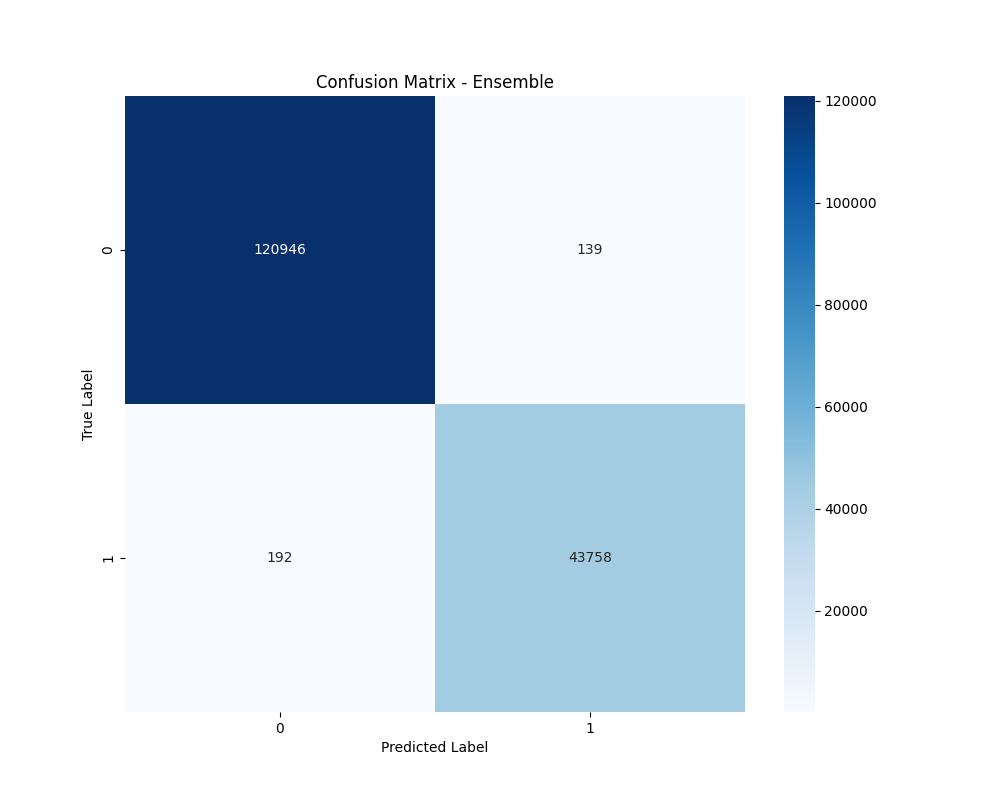
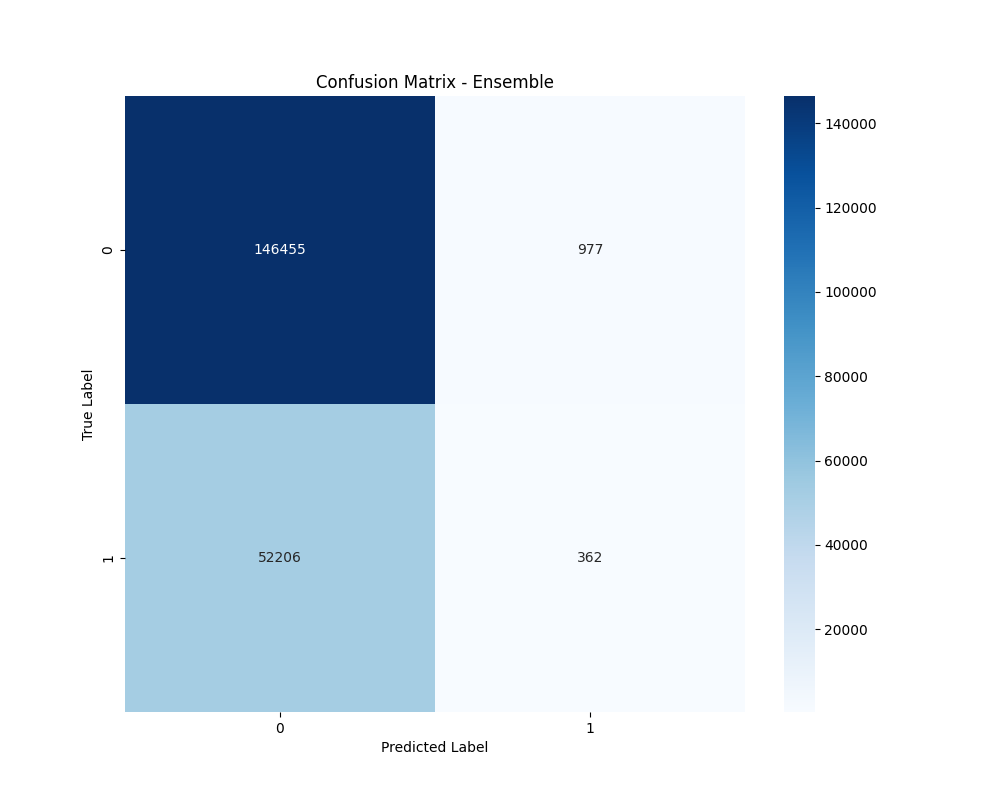
add models with ensemble xgboost and lightgm 1000000 data

diff --git a/ensemble-xgboost-lightgbm_1000000_optimized.py b/ensemble-xgboost-lightgbm_1000000_optimized.py
@@ -1,6 +1,6 @@
 import pandas as pd
 import numpy as np
-from sklearn.model_selection import GridSearchCV, train_test_split, RandomizedSearchCV, StratifiedKFold
+from sklearn.model_selection import train_test_split, RandomizedSearchCV, StratifiedKFold, cross_val_score, GridSearchCV
 from sklearn.preprocessing import RobustScaler
 from sklearn.ensemble import IsolationForest, VotingClassifier, BaggingClassifier
 from sklearn.covariance import EllipticEnvelope
@@ -8,6 +8,7 @@ from sklearn.svm import OneClassSVM
 from sklearn.metrics import classification_report, confusion_matrix, roc_auc_score, make_scorer
 from sklearn.feature_selection import SelectFromModel
 from sklearn.calibration import CalibratedClassifierCV
+from sklearn.linear_model import LogisticRegression
 from imblearn.combine import SMOTEENN, SMOTETomek
 from imblearn.over_sampling import ADASYN
 from imblearn.under_sampling import TomekLinks
@@ -54,22 +55,20 @@ data = pd.read_csv('csv/cleaned_data.csv', parse_dates=['measure_date'])
 sample_size = min(1000000, len(data))
 data_sampled = data.sample(n=sample_size, random_state=42)
 
+# Sort data by date
+data_sampled = data_sampled.sort_values('measure_date')
+
 threshold = data_sampled['value'].quantile(0.75)
 data_sampled['target'] = (data_sampled['value'] > threshold).astype(int)
 
 print("Target variable distribution:")
 print(data_sampled['target'].value_counts(normalize=True))
 
-# Enhanced Feature engineering
+# Enhanced Feature engineering (without lag and rolling statistics)
 data_sampled['hour'] = data_sampled['measure_date'].dt.hour
 data_sampled['day_of_week'] = data_sampled['measure_date'].dt.dayofweek
 data_sampled['month'] = data_sampled['measure_date'].dt.month
 data_sampled['is_weekend'] = data_sampled['day_of_week'].isin([5, 6]).astype(int)
-data_sampled['value_lag_1'] = data_sampled.groupby('event_variable')['value'].shift(1)
-data_sampled['value_rolling_mean'] = data_sampled.groupby('event_variable')['value'].rolling(window=24, min_periods=1).mean().reset_index(0, drop=True)
-data_sampled['value_rolling_std'] = data_sampled.groupby('event_variable')['value'].rolling(window=24, min_periods=1).std().reset_index(0, drop=True)
-data_sampled['value_diff'] = data_sampled.groupby('event_variable')['value'].diff()
-data_sampled['value_pct_change'] = data_sampled.groupby('event_variable')['value'].pct_change()
 
 # More complex features
 data_sampled['hour_sin'] = np.sin(2 * np.pi * data_sampled['hour'] / 24)
@@ -80,19 +79,33 @@ data_sampled['month_sin'] = np.sin(2 * np.pi * data_sampled['month'] / 12)
 data_sampled['month_cos'] = np.cos(2 * np.pi * data_sampled['month'] / 12)
 
 feature_columns = ['event_reference_value', 'hour', 'day_of_week', 'month', 'is_weekend', 
-                   'value_lag_1', 'value_rolling_mean', 'value_rolling_std', 'value_diff', 
-                   'value_pct_change', 'hour_sin', 'hour_cos', 'day_of_week_sin', 
+                   'hour_sin', 'hour_cos', 'day_of_week_sin', 
                    'day_of_week_cos', 'month_sin', 'month_cos']
 
-X = data_sampled[feature_columns].dropna()
-y = data_sampled['target'].loc[X.index]
+X = data_sampled[feature_columns]
+y = data_sampled['target']
 
 # Replace inf and nan values
 X = replace_inf_nan(X)
 y = y.loc[X.index]
 
-# Split the data
-X_train, X_test, y_train, y_test = train_test_split(X, y, test_size=0.2, random_state=42, stratify=y)
+# Verifica del processo di creazione delle feature
+print("Feature correlation with target:")
+correlation = X.corrwith(y)
+print(correlation.sort_values(ascending=False))
+
+# Verifica se ci sono feature con correlazione troppo alta con il target
+high_corr_features = correlation[abs(correlation) > 0.9].index
+if len(high_corr_features) > 0:
+    print(f"Warning: The following features have very high correlation with the target: {high_corr_features}")
+
+# Split the data (using time-based split)
+split_index = int(len(data_sampled) * 0.8)
+X_train, X_test = X[:split_index], X[split_index:]
+y_train, y_test = y[:split_index], y[split_index:]
+
+print("Train set date range:", data_sampled['measure_date'].iloc[:split_index].min(), "to", data_sampled['measure_date'].iloc[:split_index].max())
+print("Test set date range:", data_sampled['measure_date'].iloc[split_index:].min(), "to", data_sampled['measure_date'].iloc[split_index:].max())
 
 # Scale the features
 scaler = RobustScaler()
@@ -226,6 +239,13 @@ ensemble_grid_search = GridSearchCV(ensemble, param_grid, cv=StratifiedKFold(n_s
 ensemble_grid_search.fit(X_resampled_smoteenn, y_resampled_smoteenn)
 best_ensemble = ensemble_grid_search.best_estimator_
 
+# Cross-validation
+# Cross-validation
+print("Performing cross-validation...")
+cv_scores = cross_val_score(best_ensemble, X_resampled_smoteenn, y_resampled_smoteenn, cv=5, scoring=safe_roc_auc_scorer)
+print(f"Cross-validation scores: {cv_scores}")
+print(f"Mean CV score: {cv_scores.mean():.4f} (+/- {cv_scores.std() * 2:.4f})")
+
 # Evaluate ensemble
 X_test_xgb = xgb_selector.transform(X_test_scaled)
 X_test_lgb = lgb_selector.transform(X_test_scaled)
@@ -268,4 +288,108 @@ plt.tight_layout()
 plt.savefig('plots_ensemble_1000000_optimized/feature_importance_ensemble.png')
 plt.close()
 
+print("\nTop 5 important features:")
+print(ensemble_importance.head())
+
+# Verifica se c'è una feature dominante
+if ensemble_importance.iloc[0]['avg_importance'] > 0.5:
+    print(f"Warning: The feature '{ensemble_importance.iloc[0]['feature']}' has a very high importance. This might indicate data leakage.")
+
+# Verifica del codice di valutazione
+print("\nVerifying evaluation process...")
+# Assicuriamoci che stiamo usando il set di test corretto
+assert not np.array_equal(X_test, X_train), "Error: Test set is identical to training set"
+
+# Verifichiamo che la distribuzione delle classi nel set di test sia simile a quella originale
+original_distribution = data_sampled['target'].value_counts(normalize=True)
+test_distribution = y_test.value_counts(normalize=True)
+print("Original class distribution:")
+print(original_distribution)
+print("Test set class distribution:")
+print(test_distribution)
+
+# Verifichiamo che non ci siano feature con valori identici tra train e test
+for col in X_test.columns:
+    if np.array_equal(X_test[col], X_train[col]):
+        print(f"Warning: Feature '{col}' has identical values in train and test sets")
+
 print("\nEnsemble modeling completed. Visualizations saved in 'plots_ensemble_1000000_optimized' folder.")
+
+# Semplificazione del modello
+print("\nTraining a simple logistic regression model...")
+lr_model = LogisticRegression(random_state=42)
+lr_model.fit(X_train_scaled, y_train)
+
+lr_y_pred = lr_model.predict(X_test_scaled)
+lr_y_pred_proba = lr_model.predict_proba(X_test_scaled)[:, 1]
+
+print("\nClassification Report for Logistic Regression:")
+print(classification_report(y_test, lr_y_pred))
+
+print("\nAUC-ROC Score for Logistic Regression:")
+print(roc_auc_score(y_test, lr_y_pred_proba))
+
+# Feature selection più aggressiva
+print("\nPerforming aggressive feature selection...")
+for i in range(5):  # Rimuovi le 5 feature più importanti una alla volta
+    most_important_feature = ensemble_importance.iloc[0]['feature']
+    print(f"Removing feature: {most_important_feature}")
+    
+    feature_columns = [f for f in feature_columns if f != most_important_feature]
+    X = data_sampled[feature_columns]
+    
+    # Ripeti il processo di training e valutazione con le feature rimanenti
+    X_train, X_test, y_train, y_test = train_test_split(X, y, test_size=0.2, random_state=42, stratify=y)
+    
+    scaler = RobustScaler()
+    X_train_scaled = scaler.fit_transform(X_train)
+    X_test_scaled = scaler.transform(X_test)
+    
+    lr_model = LogisticRegression(random_state=42)
+    lr_model.fit(X_train_scaled, y_train)
+    
+    lr_y_pred = lr_model.predict(X_test_scaled)
+    lr_y_pred_proba = lr_model.predict_proba(X_test_scaled)[:, 1]
+    
+    print(f"\nClassification Report after removing {most_important_feature}:")
+    print(classification_report(y_test, lr_y_pred))
+    
+    print(f"\nAUC-ROC Score after removing {most_important_feature}:")
+    print(roc_auc_score(y_test, lr_y_pred_proba))
+    
+    # Aggiorna l'importanza delle feature
+    ensemble_importance = ensemble_importance[ensemble_importance['feature'] != most_important_feature]
+
+# Aumento della difficoltà del problema
+print("\nTrying different target definitions...")
+for percentile in [80, 85, 90, 95]:
+    threshold = data_sampled['value'].quantile(percentile / 100)
+    data_sampled['target'] = (data_sampled['value'] > threshold).astype(int)
+    
+    print(f"\nTarget definition: top {100 - percentile}%")
+    print("New target variable distribution:")
+    print(data_sampled['target'].value_counts(normalize=True))
+    
+    # Ripeti il processo di training e valutazione con questa nuova definizione del target
+    X = data_sampled[feature_columns]
+    y = data_sampled['target']
+    
+    X_train, X_test, y_train, y_test = train_test_split(X, y, test_size=0.2, random_state=42, stratify=y)
+    
+    scaler = RobustScaler()
+    X_train_scaled = scaler.fit_transform(X_train)
+    X_test_scaled = scaler.transform(X_test)
+    
+    lr_model = LogisticRegression(random_state=42)
+    lr_model.fit(X_train_scaled, y_train)
+    
+    lr_y_pred = lr_model.predict(X_test_scaled)
+    lr_y_pred_proba = lr_model.predict_proba(X_test_scaled)[:, 1]
+    
+    print(f"\nClassification Report for target definition {100 - percentile}%:")
+    print(classification_report(y_test, lr_y_pred))
+    
+    print(f"\nAUC-ROC Score for target definition {100 - percentile}%:")
+    print(roc_auc_score(y_test, lr_y_pred_proba))
+
+print("\nAnalysis completed.")

diff --git a/RFM_1000000.py b/RFM_1000000.py
@@ -1,0 +1,117 @@
+
+import pandas as pd
+import numpy as np
+from sklearn.model_selection import train_test_split, RandomizedSearchCV
+from sklearn.preprocessing import StandardScaler
+from sklearn.ensemble import RandomForestClassifier
+from sklearn.metrics import classification_report, confusion_matrix, roc_auc_score
+from imblearn.over_sampling import SMOTE
+import matplotlib.pyplot as plt
+import seaborn as sns
+import os
+
+# Creazione della cartella 'plots' se non esiste
+if not os.path.exists('plots_1000000'):
+    os.makedirs('plots_1000000')
+    print("Cartella 'plots' creata.")
+
+# Carica i dati puliti
+print("Caricamento dei dati puliti...")
+data = pd.read_csv('csv/cleaned_data.csv', parse_dates=['measure_date'])
+
+# Riduzione del dataset
+sample_size = min(1000000, len(data))  # Usa un campione più piccolo se necessario
+data_sampled = data.sample(n=sample_size, random_state=42)
+
+print("Creazione della colonna target...")
+threshold = data_sampled['value'].quantile(0.75)
+data_sampled['target'] = (data_sampled['value'] > threshold).astype(int)
+
+print("Distribuzione della variabile target:")
+print(data_sampled['target'].value_counts(normalize=True))
+
+# Feature engineering più efficiente
+data_sampled['hour'] = data_sampled['measure_date'].dt.hour
+data_sampled['day_of_week'] = data_sampled['measure_date'].dt.dayofweek
+data_sampled['month'] = data_sampled['measure_date'].dt.month
+data_sampled['is_weekend'] = data_sampled['day_of_week'].isin([5, 6]).astype(int)
+
+# Lag features e rolling statistics (su un subset più piccolo di dati)
+data_sampled = data_sampled.sort_values('measure_date')
+data_sampled['value_lag_1'] = data_sampled.groupby('event_variable')['value'].shift(1)
+data_sampled['value_rolling_mean'] = data_sampled.groupby('event_variable')['value'].rolling(window=24, min_periods=1).mean().reset_index(0, drop=True)
+
+feature_columns = ['event_reference_value', 'hour', 'day_of_week', 'month', 'is_weekend', 
+                   'value_lag_1', 'value_rolling_mean']
+
+# Prepara i dati per il modello
+X = data_sampled[feature_columns].dropna()
+y = data_sampled['target'].loc[X.index]
+
+# Divisione dei dati
+X_train, X_test, y_train, y_test = train_test_split(X, y, test_size=0.2, random_state=42)
+
+# Standardizzazione
+scaler = StandardScaler()
+X_train_scaled = scaler.fit_transform(X_train)
+X_test_scaled = scaler.transform(X_test)
+
+# Bilanciamento delle classi (su un subset più piccolo se necessario)
+if len(X_train) > 1000000:
+    X_train_subset, _, y_train_subset, _ = train_test_split(X_train_scaled, y_train, train_size=1000000, stratify=y_train, random_state=42)
+    smote = SMOTE(random_state=42)
+    X_train_resampled, y_train_resampled = smote.fit_resample(X_train_subset, y_train_subset)
+else:
+    smote = SMOTE(random_state=42)
+    X_train_resampled, y_train_resampled = smote.fit_resample(X_train_scaled, y_train)
+
+# Ottimizzazione degli iperparametri con RandomizedSearchCV invece di GridSearchCV
+param_distributions = {
+    'n_estimators': [100, 200],
+    'max_depth': [10, 20, None],
+    'min_samples_split': [2, 5],
+    'min_samples_leaf': [1, 2]
+}
+
+rf = RandomForestClassifier(random_state=42)
+random_search = RandomizedSearchCV(estimator=rf, param_distributions=param_distributions, 
+                                   n_iter=10, cv=3, n_jobs=-1, scoring='roc_auc', random_state=42)
+random_search.fit(X_train_resampled, y_train_resampled)
+
+print("Migliori parametri:", random_search.best_params_)
+best_model = random_search.best_estimator_
+
+# Valutazione del modello
+y_pred = best_model.predict(X_test_scaled)
+y_pred_proba = best_model.predict_proba(X_test_scaled)[:, 1]
+
+print("\nReport di classificazione:")
+print(classification_report(y_test, y_pred))
+
+print("\nAUC-ROC Score:")
+print(roc_auc_score(y_test, y_pred_proba))
+
+# Matrice di confusione
+plt.figure(figsize=(10, 8))
+sns.heatmap(confusion_matrix(y_test, y_pred), annot=True, fmt='d', cmap='Blues')
+plt.title('Matrice di Confusione')
+plt.ylabel('Valore Reale')
+plt.xlabel('Valore Predetto')
+plt.savefig('plots_1000000/confusion_matrix.png')
+plt.close()
+
+# Importanza delle feature
+feature_importance = pd.DataFrame({
+    'feature': feature_columns,
+    'importance': best_model.feature_importances_
+}).sort_values('importance', ascending=False)
+
+plt.figure(figsize=(10, 6))
+sns.barplot(x='importance', y='feature', data=feature_importance)
+plt.title('Importanza delle Feature')
+plt.tight_layout()
+plt.savefig('plots_1000000/feature_importance.png')
+plt.close()
+
+print("\nLe visualizzazioni sono state salvate nella cartella 'plots'.")
+print("\nModellazione completata.")
